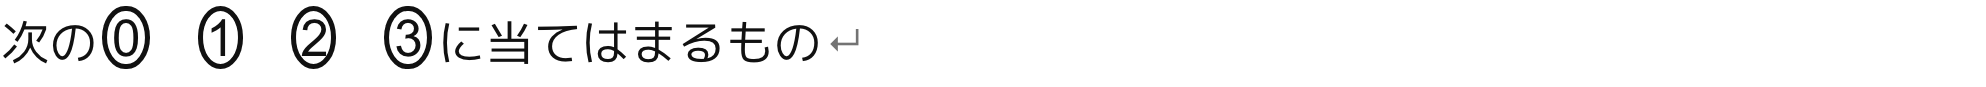
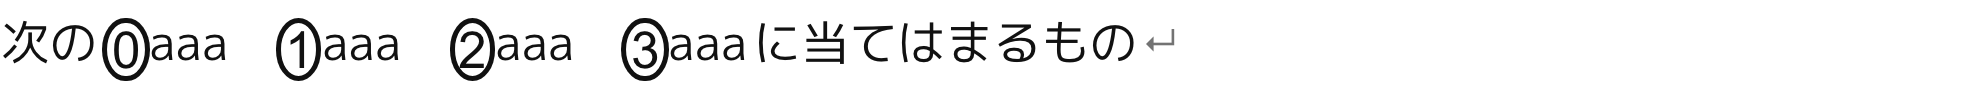
Align choice oval with adjacent math text center

Changed region(s): [[0.0312, 0.069, 0.5932, 0.9195]]

diff --git a/apps/desktop/tests/e2e/editing-display-parity.spec.ts b/apps/desktop/tests/e2e/editing-display-parity.spec.ts
@@ -378,7 +378,7 @@ function parityDocumentWithKyoutsuuChoice(): SigmaDocument {
           {
             type: "mathInline",
             id: KYOUTSUU_CHOICE_MATH_ID,
-            tex: String.raw`\kyoutsuuchoice{0}\quad\kyoutsuuchoice{1}\quad\kyoutsuuchoice{2}\quad\kyoutsuuchoice{3}`,
+            tex: String.raw`\kyoutsuuchoice{0}\text{aaa}\quad\kyoutsuuchoice{1}\text{aaa}\quad\kyoutsuuchoice{2}\text{aaa}\quad\kyoutsuuchoice{3}\text{aaa}`,
             display: "inline",
           },
           { type: "text", text: "に当てはまるもの" },
@@ -841,6 +841,26 @@ test("keeps canonical static math geometry while MathLive is editing", async ({ 
     const idleMarkup = await preview.innerHTML();
 
     if (id === KYOUTSUU_CHOICE_MATH_ID) {
+      // Compare visible lowercase ink with the oval, not merely the formula's
+      // unchanged layout box: that missed the original vertical misalignment.
+      const centerGap = await preview.evaluate(el => {
+        const oval = el.querySelector<HTMLElement>(".sigma-kyoutsuu-choice")!;
+        const label = oval.nextElementSibling as HTMLElement;
+        if (label.textContent !== "aaa") throw new Error("Missing adjacent text fixture");
+        const style = getComputedStyle(label);
+        const context = document.createElement("canvas").getContext("2d")!;
+        context.font = `${style.fontStyle} ${style.fontWeight} ${style.fontSize} ${style.fontFamily}`;
+        const ink = context.measureText("aaa");
+        const baseline = document.createElement("span");
+        baseline.style.cssText = "display:inline-block;width:0;height:0;vertical-align:baseline";
+        label.after(baseline);
+        const textCenter = baseline.getBoundingClientRect().top
+          + (ink.actualBoundingBoxDescent - ink.actualBoundingBoxAscent) / 2;
+        baseline.remove();
+        const rect = oval.getBoundingClientRect();
+        return Math.abs(rect.top + rect.height / 2 - textCenter);
+      });
+      expect(centerGap, "choice oval and adjacent aaa ink centers").toBeLessThanOrEqual(1.5);
       await page.screenshot({ path: testInfo.outputPath("choice-static.png") });
       await math.locator("xpath=..").screenshot({ path: testInfo.outputPath("choice-detail.png"), scale: "css" });
       const paragraph = math.locator("xpath=..");

diff --git a/apps/desktop/src/app/document-surface.test.ts b/apps/desktop/src/app/document-surface.test.ts
@@ -570,7 +570,7 @@ describe("枠レイヤを落とすとセグメントの border に戻る", () =>
     expect(staticChoice["box-shadow"]).toBe("inset 0 0 0 0.105em currentColor");
     expect(staticChoice["border-radius"]).toBe("50%");
     expect(staticChoice["font-variant-numeric"]).toBe("tabular-nums");
-    expect(staticChoice["vertical-align"]).toBe("0.16em");
+    expect(staticChoice["vertical-align"]).toBe("middle");
     expect(staticText["font-size"]).toBe("1.067em");
   });
 });

diff --git a/apps/desktop/src/lib/math-macros.ts b/apps/desktop/src/lib/math-macros.ts
@@ -25,7 +25,7 @@ export const SIGMA_MATHLIVE_MACRO_STYLES = String.raw`
   inline-size: 0.96em;
   justify-content: center;
   line-height: 1;
-  vertical-align: 0.16em;
+  vertical-align: middle;
 }
 
 .${KYOUTSUU_CHOICE_CLASS} > .ML__text,

diff --git a/apps/desktop/src/app/document-surface.css b/apps/desktop/src/app/document-surface.css
@@ -264,7 +264,7 @@
   inline-size: 0.96em;
   justify-content: center;
   line-height: 1;
-  vertical-align: 0.16em;
+  vertical-align: middle;
 }
 
 .sigma-kyoutsuu-choice > .ML__text,
